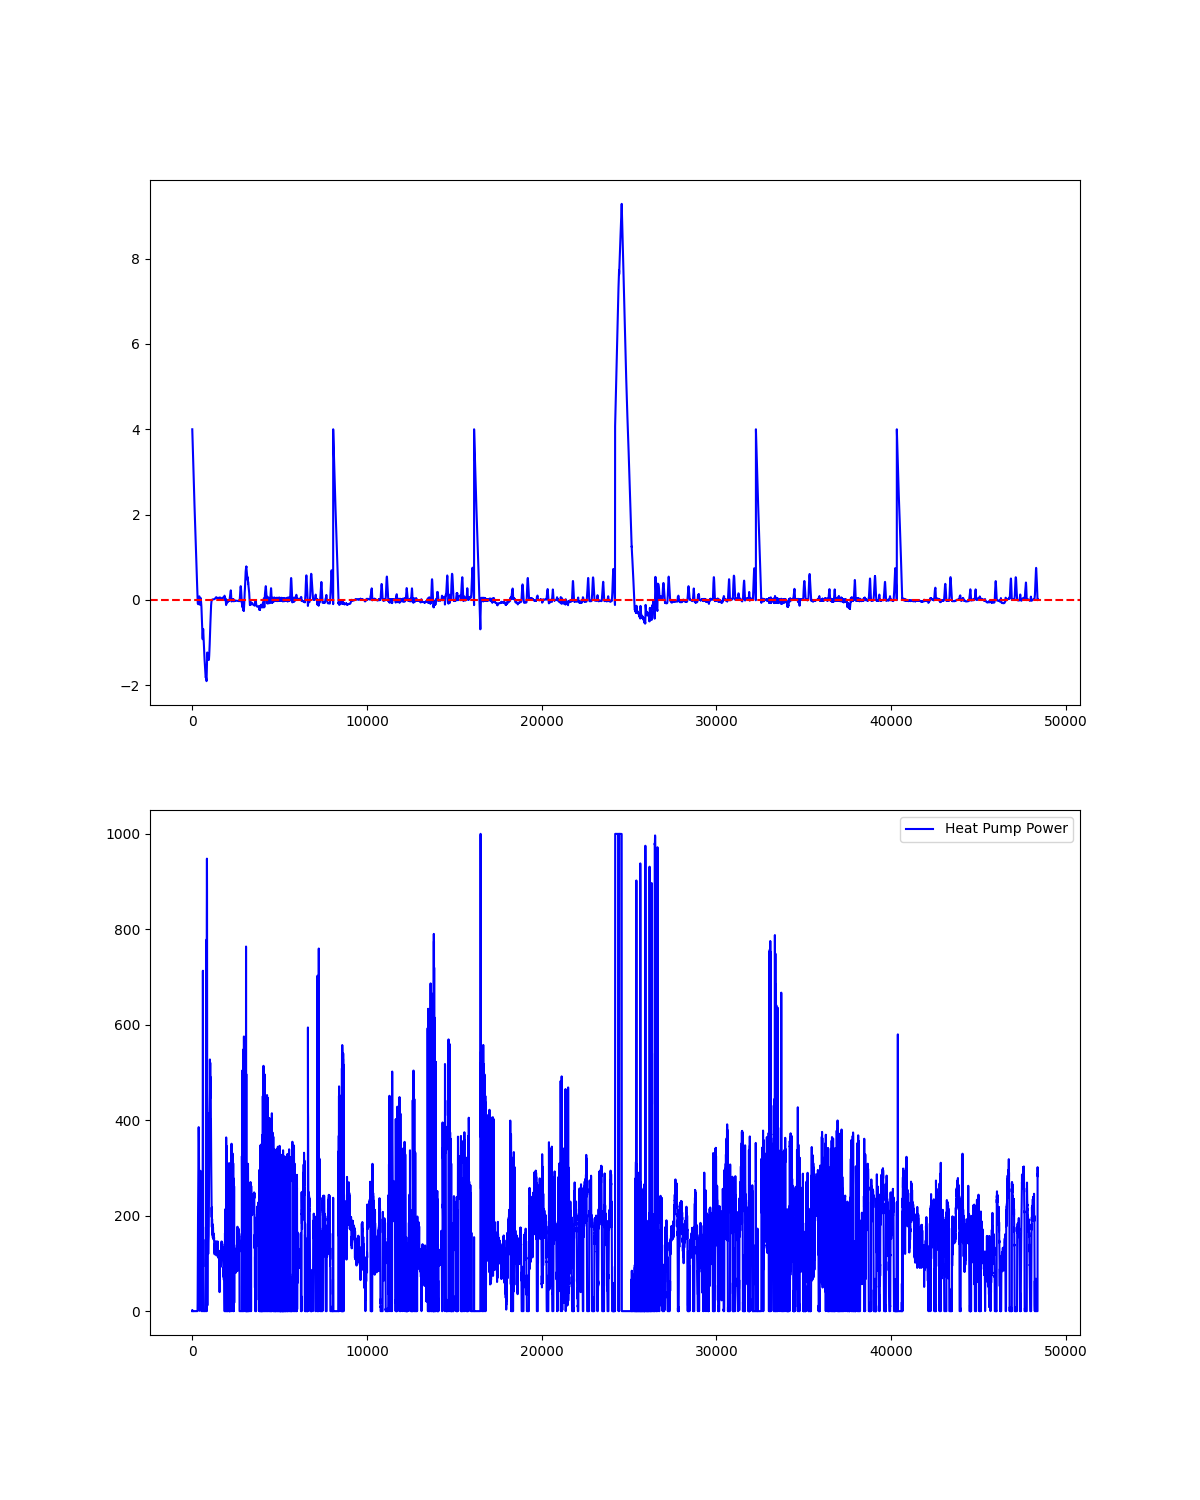
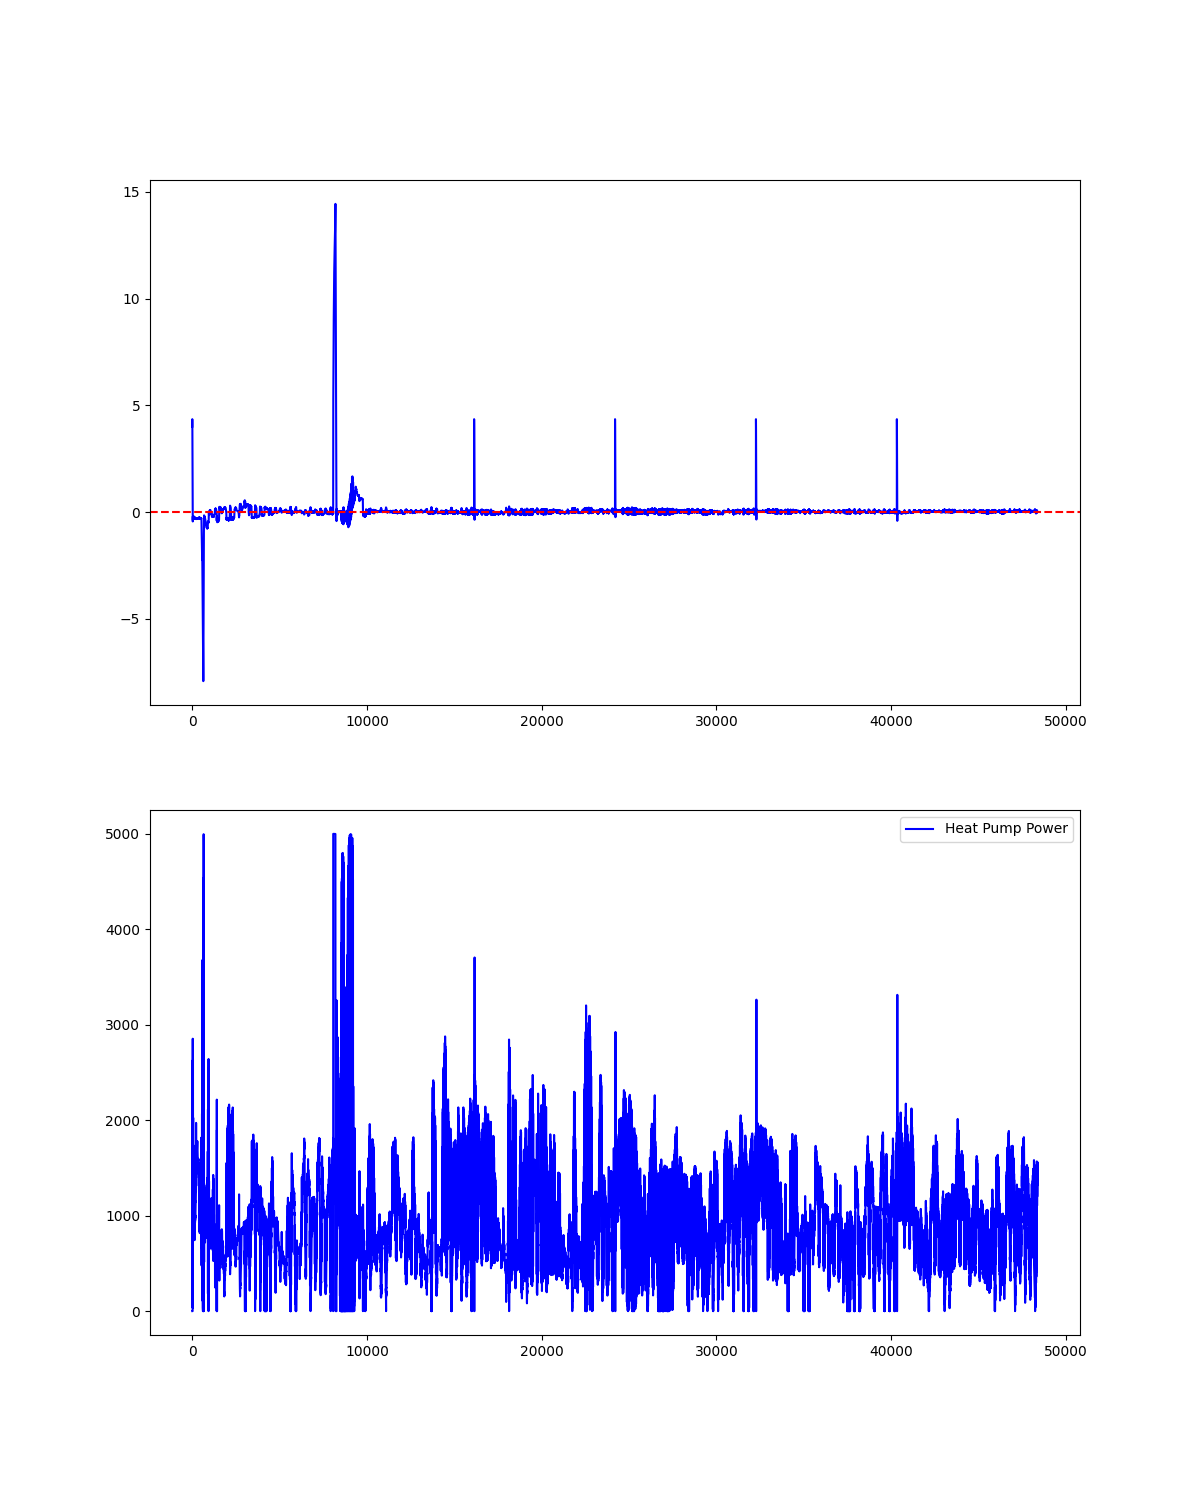
changed environment

diff --git a/code/generate_PID_dataset.py b/code/generate_PID_dataset.py
@@ -10,8 +10,8 @@ from utils import normalize
 import matplotlib.pyplot as plt 
 
 def reward_function(obs, action, last_action):
-    delta = outputs['delta']
-    heat_pump_power = normalize(outputs['heaPum.P'], 0, 1000)
+    delta = obs['delta']
+    heat_pump_power = normalize(obs['heaPum.P'], 0, 5000)
     
     if abs(delta) < 1:
         smoothness_error = -2 * abs(action - last_action)
@@ -24,68 +24,68 @@ def reward_function(obs, action, last_action):
     return reward
     
 if __name__ == "__main__":
-    env = energym.make("SimpleHouseRad-v0", weather=weathers[0], simulation_days=365, start_day = 1, start_month = 10, year = 2020, eval_mode=False)
+    env_1 = energym.make("SimpleHouseRad-v0", weather=weathers[0], simulation_days=365, start_day = 1, start_month = 10, year = 2020, eval_mode=False)
+    env_2 = energym.make("SimpleHouseRad-v0", weather=weathers[0], simulation_days=365, start_day = 1, start_month = 10, year = 2019, eval_mode=False)
     
-    steps = 288
-    last_error = 0
-    total_error = 0
-    cumulative_error = 0
-    set_point = 16
-    last_action = 0
-        
+    steps = 50000
+    
     kp = 0.1
     ki = 0
     kd = 100
     
-    outputs = env.get_output()
-    outputs['delta'] = (outputs['temRoo.T'] - 273.15) - set_point
     out_list = []
-    out_list.append(outputs)
-    
     acts = []
-    tem_room = []
     rewards = []
     set_points = []
     
-    daily_timestep = 0
-
-    for i in tqdm(range(steps*2)):
-        if daily_timestep == 84:
-            set_point = 20
-        elif daily_timestep == 252:
-            set_point = 16
-        elif daily_timestep == 288:
-            daily_timestep = 0
-        time = (i + 1) * 300
-        error = (outputs['temRoo.T'] - 273.15) - set_point
-        total_error += (-error)
-        delta_error = (-error) - last_error
-        heat_P_power = outputs['heaPum.P']/5000
+    for env in [env_1, env_2]:
+        last_error = 0
+        total_error = 0
+        cumulative_error = 0
+        set_point = 16
+        last_action = 0
         
-        control_signal = kp * (-error) + ki * 300 * total_error + (kd/300) * delta_error
-        heat_P_power += control_signal
-        control_signal = max(0, min(1, heat_P_power))
-        
-        control = {}
-        control['u'] = [control_signal]
-        outputs = env.step(control)
+        outputs = env.get_output()
         outputs['delta'] = (outputs['temRoo.T'] - 273.15) - set_point
-        tem_room.append(outputs['temRoo.T'] - 273.15)
         out_list.append(outputs)
-        acts.append([control_signal])
-        rewards.append(reward_function(outputs, control_signal, last_action))
         
-        last_error = -error
-        last_action = control_signal
-        daily_timestep += 1
-        set_points.append(set_point)
+        daily_timestep = 0
+
+        for i in tqdm(range(steps)):
+            if daily_timestep == 84:
+                set_point = 20
+            elif daily_timestep == 252:
+                set_point = 16
+            elif daily_timestep == 288:
+                daily_timestep = 0
+            time = (i + 1) * 300
+            error = (outputs['temRoo.T'] - 273.15) - set_point
+            total_error += (-error)
+            delta_error = (-error) - last_error
+            heat_P_power = outputs['heaPum.P']/5000
+            
+            control_signal = kp * (-error) + ki * 300 * total_error + (kd/300) * delta_error
+            heat_P_power += control_signal
+            control_signal = max(0, min(1, heat_P_power))
+            
+            control = {}
+            control['u'] = [control_signal]
+            outputs = env.step(control)
+            outputs['delta'] = (outputs['temRoo.T'] - 273.15) - set_point
+            out_list.append(outputs)
+            acts.append([control_signal])
+            rewards.append(reward_function(outputs, control_signal, last_action))
+            
+            last_error = -error
+            last_action = control_signal
+            daily_timestep += 1
+            set_points.append(set_point)
+        
+        acts.append([0])
+        rewards.append(0)
         
     out_df = pd.DataFrame(out_list)
     out_df = out_df[["heaPum.P", "temSup.T", "TOut.T", "delta"]]
-    obs = out_df[:steps].values
-    next_obs = out_df[1:(steps+1)].values
-    acts.append([0])
-    rewards.append(0)
     
     dataset = pd.DataFrame({
         'heaPum.P': out_df['heaPum.P'],
@@ -97,7 +97,3 @@ if __name__ == "__main__":
     })
     
     dataset.to_excel('datasets/PID_dataset_basel.xlsx')
-    
-    # plt.plot(out_df["TOut.T"])
-    plt.plot(set_points, color='r', linestyle='--')
-    plt.show()

diff --git a/code/data_comparison.py b/code/data_comparison.py
@@ -41,9 +41,9 @@ def get_week_data(df: pd.DataFrame, week_number: int):
         print("Invalid week number")
 
 def training_comparison():
-    after_bc = pd.read_excel("./code/d3rlpy/datasets/ddpg_after_bc.xlsx")
-    after_training = pd.read_excel("./code/d3rlpy/datasets/ddpg_after_pretraining.xlsx")
-    only_online = pd.read_excel("./code/d3rlpy/datasets/ddpg_only_online.xlsx")
+    after_bc = pd.read_excel("./datasets/ddpg_after_bc.xlsx")
+    after_training = pd.read_excel("./datasets/ddpg_after_pretraining.xlsx")
+    only_online = pd.read_excel("./datasets/ddpg_only_online.xlsx")
     
     for week_number in range(1, 7):
         deltas_bc = get_week_data(after_bc['delta'], week_number)
@@ -66,41 +66,40 @@ def training_comparison():
         text_str = f"Week: {week_number}\nBC Mean: {abs(deltas_bc).mean():.2f}\nPretraining Mean: {abs(deltas_pre).mean():.2f}\nOnline Mean: {abs(deltas_online).mean():.2f}"
         plt.text(0.75, 0.05, text_str, transform=plt.gca().transAxes, fontsize=12, bbox=dict(boxstyle='round', facecolor='white', alpha=0.5))
         
-        plt.savefig(f".\code\d3rlpy\graphs\week_{week_number}.png")
+        plt.savefig(f".\graphs\week_{week_number}.png")
     
     plt.show()
     
 def test_comparison():
     out_list = []
-    weather = weathers[4]
     
     models = ["ddpg_after_bc", "ddpg_after_pretraining", "ddpg_only_online"]
     plt.figure(figsize=(12, 6))
     
     for model_name, color, label in zip(models, ["b", "r", "g"], ["After bc", "After offline pretraining", "Only online"]):
         out_list = []
-        env = gym.make("SwissHouseRSlaW2W-v0", weather=weather, eval_mode=False)
+        env = gym.make("SimpleHouseRad-v0", eval_mode=False)
         model = d3rlpy.algos.DDPGConfig().create()
         model.build_with_env(env)
-        model.load_model(f"./code/d3rlpy/trained_models/{model_name}")
+        model.load_model(f"./trained_models/{model_name}")
         
         obs, _ = env.reset()
-        steps = 4000
+        steps = 288
         cumulative_error = 0
         
         env.set_set_point(289.15)
         
         for i in tqdm(range(steps)):
-            if i == 1000:
+            if i == 84:
                 env.set_set_point(293.15)
-            if i == 3000:
+            if i == 252:
                 env.set_set_point(289.15)
             action = model.predict(np.expand_dims(obs, axis=0))[0]
             action = np.clip(action, env.action_space.low, env.action_space.high)
             obs, rewards, terminated, truncated, info = env.step(action)
             cumulative_error += abs(obs[3])
             out_list.append({
-                    "heaPum.P": unnormalize(obs[0], 0, 1000),
+                    "heaPum.P": unnormalize(obs[0], 0, 5000),
                     "temSup.T": unnormalize(obs[1], 273.15, 353.15),
                     "TOut.T": unnormalize(obs[2], 253.15, 343.15),
                     "temRoo.T": info['temRoo.T'],
@@ -116,7 +115,7 @@ def test_comparison():
         plt.plot(out_df["temRoo.T"]-273.15, color=color, label=label)
         
     out_list = []
-    env = energym.make("SwissHouseRSlaW2W-v0", weather=weathers[4], simulation_days=365, eval_mode=False)
+    env = energym.make("SimpleHouseRad-v0", simulation_days=365, eval_mode=False)
     outputs = env.get_output()
     set_point = 16
     last_error = 0
@@ -128,15 +127,15 @@ def test_comparison():
     kd = 100
 
     for i in tqdm(range(steps)):
-        if i == 1000:
+        if i == 84:
             set_point = 20
-        if i == 3000:
+        if i == 252:
             set_point = 16
         error = (outputs['temRoo.T'] - 273.15) - set_point
         total_error += (-error)
         cumulative_error += abs(error)
         delta_error = (-error) - last_error
-        heat_P_power = outputs['heaPum.P']/1000
+        heat_P_power = outputs['heaPum.P']/5000
         
         control_signal = kp * (-error) + ki * 300 * total_error + (kd/300) * delta_error
         heat_P_power += control_signal
@@ -160,7 +159,7 @@ def test_comparison():
     plt.axhline(y=20, linestyle='--')   
     plt.tight_layout()
     plt.legend()
-    plt.savefig(f"code/d3rlpy/graphs/test_comparison")
+    plt.savefig(f"./graphs/test_comparison")
     plt.show()
 
 if __name__ == "__main__":

diff --git a/code/online_training.py b/code/online_training.py
@@ -15,28 +15,28 @@ from utils import get_dataset, unnormalize
 import torch      
 
 if __name__ == "__main__":
-    env = gym.make("SwissHouseRSlaW2W-v0")
-    name = "ddpg_only_online_new_parameters"
+    env = gym.make("SimpleHouseRad-v0")
+    name = "ddpg_after_pretraining"
     d3rlpy.envs.seed_env(env, 42)
     
     # expert = d3rlpy.algos.BCConfig().create()
     # expert.build_with_env(env)
-    # expert.load_model("./code/d3rlpy/trained_models/bc_pretrained")
+    # expert.load_model("./trained_models/bc_pretrained")
     
-    # expert = d3rlpy.algos.DDPGConfig().create()
-    # expert.build_with_env(env)
-    # expert.load_model("./code/d3rlpy/trained_models/ddpg_pretrained_new_hyperparameters")
+    expert = d3rlpy.algos.DDPGConfig().create()
+    expert.build_with_env(env)
+    expert.load_model("./trained_models/ddpg_pretrained")
     
     learner = d3rlpy.algos.DDPGConfig(
             gamma=0.99,
-            actor_learning_rate=0.0002,
-            critic_learning_rate=0.0002,
-            batch_size=100,
-            tau=0.02
+            actor_learning_rate=0.001,
+            critic_learning_rate=0.001,
+            batch_size=512,
+            tau=0.08
         ).create()
     learner.build_with_env(env)
-    # learner.copy_policy_from(expert)
-    # learner.copy_q_function_from(expert)
+    learner.copy_policy_from(expert)
+    learner.copy_q_function_from(expert)
     
     buffer = d3rlpy.dataset.FIFOBuffer(limit=100000)
     replay_buffer = d3rlpy.dataset.ReplayBuffer(
@@ -48,19 +48,19 @@ if __name__ == "__main__":
     for epoch in range(6):
         print(f"Epoch: {epoch}")
         learner.fit_online(env=env, buffer=replay_buffer, n_steps=8064, n_steps_per_epoch=8064, save_interval=50000)
-        learner.save_model(f"./code/d3rlpy/trained_models/{name}")
+        learner.save_model(f"./trained_models/{name}")
         
     out_list = []
     for episode in replay_buffer.episodes:
         for observation in episode.observations:
             out_list.append({
-                "heaPum.P": unnormalize(observation[0], 0, 1000),
+                "heaPum.P": unnormalize(observation[0], 0, 5000),
                 "temSup.T": unnormalize(observation[1], 273.15, 353.15),
                 "delta": observation[3]
             })
         
     out_df = pd.DataFrame(out_list)
-    out_df.to_excel(f"./code/d3rlpy/datasets/{name}.xlsx")
+    out_df.to_excel(f"./datasets/{name}.xlsx")
     
     f, (ax1, ax2) = plt.subplots(2, figsize=(12, 15))
     
@@ -70,5 +70,5 @@ if __name__ == "__main__":
     ax2.plot(out_df["heaPum.P"], color='b', label='Heat Pump Power')
 
     plt.legend()
-    plt.savefig(f"./code/d3rlpy/graphs/{name}.png")
+    plt.savefig(f"./graphs/{name}.png")
     plt.show()

diff --git a/code/offline_training.py b/code/offline_training.py
@@ -1,13 +1,12 @@
-import gymnasium as gym
 import d3rlpy
 import registration
 import numpy as np
 from utils import get_dataset
 
 if __name__ == "__main__":
-    env = gym.make("SimpleHouseRad-v0")
-
-    obs, next_obs, actions, rewards = get_dataset("./datasets/PID_dataset.xlsx")
+    name = "ddpg_pretrained"
+    
+    obs, next_obs, actions, rewards = get_dataset("./datasets/PID_dataset_basel.xlsx")
     obs = np.array(obs)
     next_obs = np.array(next_obs)
     rewards = np.array(rewards)
@@ -25,13 +24,16 @@ if __name__ == "__main__":
         terminals=dones
     )
     
-    learner = d3rlpy.algos.DDPGConfig(
-            gamma=0.99,
-            actor_learning_rate=0.0002,
-            critic_learning_rate=0.0002,
-            batch_size=100,
-            tau=0.02
-        ).create(device="cuda:0")
+    if name == "bc_pretrained":
+        learner = d3rlpy.algos.BCConfig().create(device="cuda:0")
+    elif name == "ddpg_pretrained":
+        learner = d3rlpy.algos.DDPGConfig(
+                gamma=0.99,
+                actor_learning_rate=0.001,
+                critic_learning_rate=0.001,
+                batch_size=512,
+                tau=0.08
+            ).create(device="cuda:0")
     
-    learner.fit(dataset, n_steps=300000, n_steps_per_epoch=20000, show_progress=True, save_interval=20000)
-    learner.save_model("./code/d3rlpy/trained_models/ddpg_pretrained_new_hyperparameters")
+    learner.fit(dataset, n_steps=500000, n_steps_per_epoch=20000, show_progress=True, save_interval=20000)
+    learner.save_model(f"./trained_models/{name}")

diff --git a/code/SimpleHouseRad.py b/code/SimpleHouseRad.py
@@ -58,7 +58,7 @@ class SimpleHouseRad(gym.Env):
     def reset(self, weather=None, options=None, seed=None):
         if weather is not None:
             self.weather = weather
-        self.env = energym.make('SwissHouseRSlaW2W-v0', weather=self.weather, start_day=self.start_day, start_month=self.start_month, simulation_days=365, eval_mode=self.eval_mode)
+        self.env = energym.make('SimpleHouseRad-v0', weather=self.weather, start_day=self.start_day, start_month=self.start_month, simulation_days=365, eval_mode=self.eval_mode)
         obs = self._get_obs()
 
         return obs, {}

diff --git a/code/utils.py b/code/utils.py
@@ -15,7 +15,7 @@ def get_dataset(path):
     obs = []
         
     for _, row in tqdm(df.iterrows()):
-        row['heaPum.P'] = normalize(row['heaPum.P'], 0, 1000)
+        row['heaPum.P'] = normalize(row['heaPum.P'], 0, 5000)
         row['temSup.T'] = normalize(row['temSup.T'], 273.15, 353.15)
         row['TOut.T'] = normalize(row['TOut.T'], 253.15, 343.15)
         row['delta'] = row['delta']
